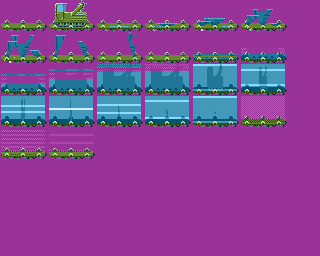
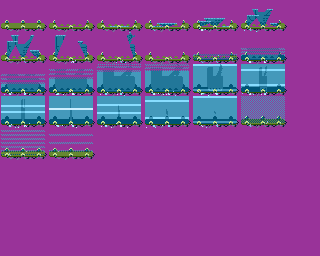
update teleporter flipbook to final gfx

diff --git a/src/flipbook.c b/src/flipbook.c
@@ -133,14 +133,14 @@ void flipbookManagerCreate(void) {
 
 	flipbookAnimDataCreate(
 		&s_pAnimDatas[FLIPBOOK_KIND_TELEPORTER_OUT], 20, 25,
-		(UBYTE[]){0, 1, 2, 3, 4, 5, 6, 7, 0, 8, 9, 10, 11, 12, 13, 14, 15, 16, 17, 18, 19, 20, 21, 22, 23},
+		(UBYTE[]){0, 1, 2, 3, 4, 5, 6, 7, 8, 9, 10, 11, 12, 13, 14, 15, 16, 17, 18, 19, 20, 21, 22, 23, 24},
 		(UBYTE[]){4, 4, 4, 4, 4, 4, 4, 4, 4, 2, 2, 2, 2, 2, 2, 2, 2, 2, 2, 2, 2, 2, 2, 2, 2},
 		s_pTeleporterFrames, s_pTeleporterFramesMask, &s_sBobRingWide, s_pSfxTeleport
 	);
 	flipbookAnimDataCreate(
-		&s_pAnimDatas[FLIPBOOK_KIND_TELEPORTER_IN], 8, 16,
-		(UBYTE[]){23, 22, 21, 20, 19, 18, 17, 16, 15, 14, 13, 12, 11, 10, 9, 8},
-		(UBYTE[]){2, 2, 2, 2, 2, 2, 2, 2, 2, 2, 2, 2, 2, 2, 2, 2},
+		&s_pAnimDatas[FLIPBOOK_KIND_TELEPORTER_IN], 8, 17,
+		(UBYTE[]){24, 23, 22, 21, 20, 19, 18, 17, 16, 15, 14, 13, 12, 11, 10, 9, 8},
+		(UBYTE[]){2, 2, 2, 2, 2, 2, 2, 2, 2, 2, 2, 2, 2, 2, 2, 2, 2},
 		s_pTeleporterFrames, s_pTeleporterFramesMask, &s_sBobRingWide, s_pSfxTeleport
 	);
 	flipbookAnimDataCreate(
